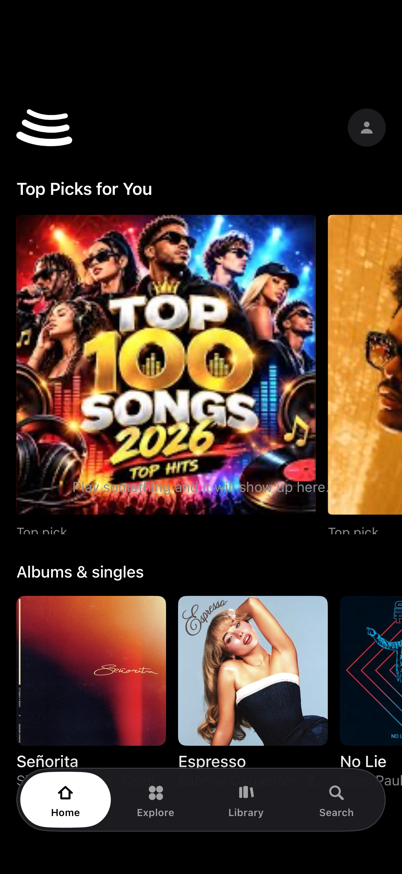
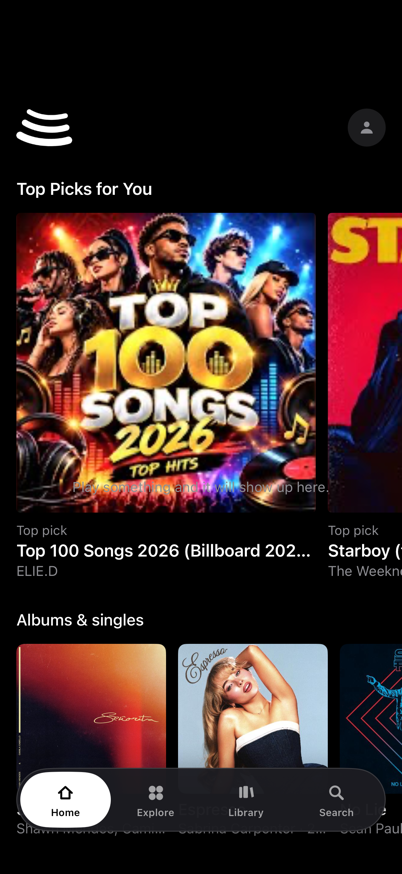
Clear Home's empty state as soon as Top Picks arrive
Generated with Codebuff

diff --git a/v2/BitChordIOS12/Sources/HomeViewController.swift b/v2/BitChordIOS12/Sources/HomeViewController.swift
@@ -138,6 +138,10 @@ final class HomeViewController: UIViewController {
             self.remoteQuickPicks = Array(tracks.prefix(20))
             self.topPicks.configure(tracks: self.remoteQuickPicks)
             self.topPicks.isHidden = false
+            // rebuild() can return early when the shelf shape is unchanged, so
+            // the empty state is cleared here, where the feed first appears.
+            self.emptyLabel.isHidden = true
+            self.scrollView.isHidden = false
             self.rebuild()
         }
     }
